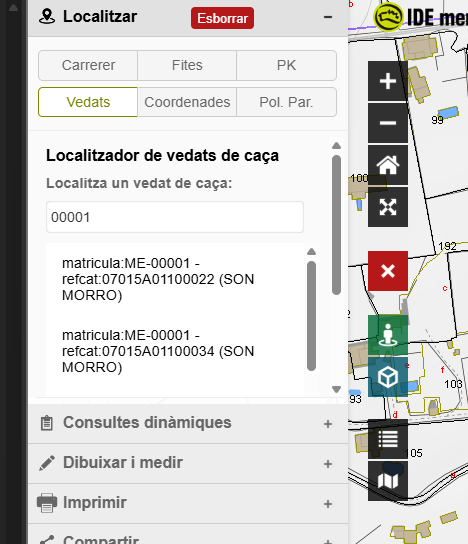
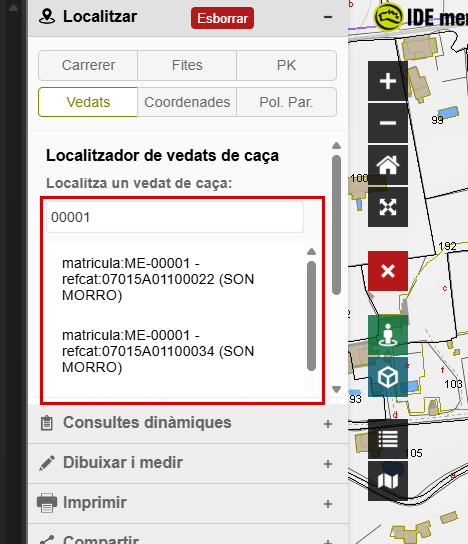
Curs mitja 4.6: requadres a les captures, objectiu complet i exercici amb el far de Favaritx

Changed region(s): [[0.0598, 0.3438, 0.7179, 0.75]]

diff --git a/docs/formacio/mig/modul-4-visor-generic/06-localitzadors.md b/docs/formacio/mig/modul-4-visor-generic/06-localitzadors.md
@@ -2,8 +2,9 @@
 
 ## Objectiu
 
-En acabar aquesta secció sabràs fer servir els localitzadors especialitzats: punts quilomètrics,
-vedats de caça i la resta.
+En acabar aquesta secció sabràs fer servir els localitzadors especialitzats:
+carrerer, fites del Camí de Cavalls, punts quilomètrics, vedats de caça,
+coordenades i polígon i parcel·la.
 
 ## Passos
 
@@ -58,7 +59,7 @@ vedats de caça i la resta.
     «002».
 
 !!! info "Tres sistemes de referència"
-    A **Coordenades** pots triar WGS84 Web Mercator, ETRS89 UTM 31N o WGS84. Si
+    A **Coordenades** pots triar WGS84 Web Mercator, ETRS89 31N o WGS84. Si
     les coordenades no et cauen on toca, comprova que has triat el sistema
     correcte.
 
@@ -68,6 +69,7 @@ vedats de caça i la resta.
 - [ ] **Fites**: troba la fita **03-003** del tram 3 del Camí de Cavalls.
 - [ ] **PK**: troba el punt quilomètric 1 de la **Me-13**.
 - [ ] **Vedats**: escriu **00001**. De quina finca és el vedat?
-- [ ] **Coordenades**: amb **WGS84 Web Mercator**, ves a X 474924, Y 4848903.
+- [ ] **Coordenades**: amb **WGS84 Web Mercator**, ves a X 474972, Y 4865531.
+  Quin far hi trobes?
 - [ ] **Pol. Par.**: troba una parcel·la del teu municipi.
 - [ ] Neteja-ho tot amb **Esborrar**.
